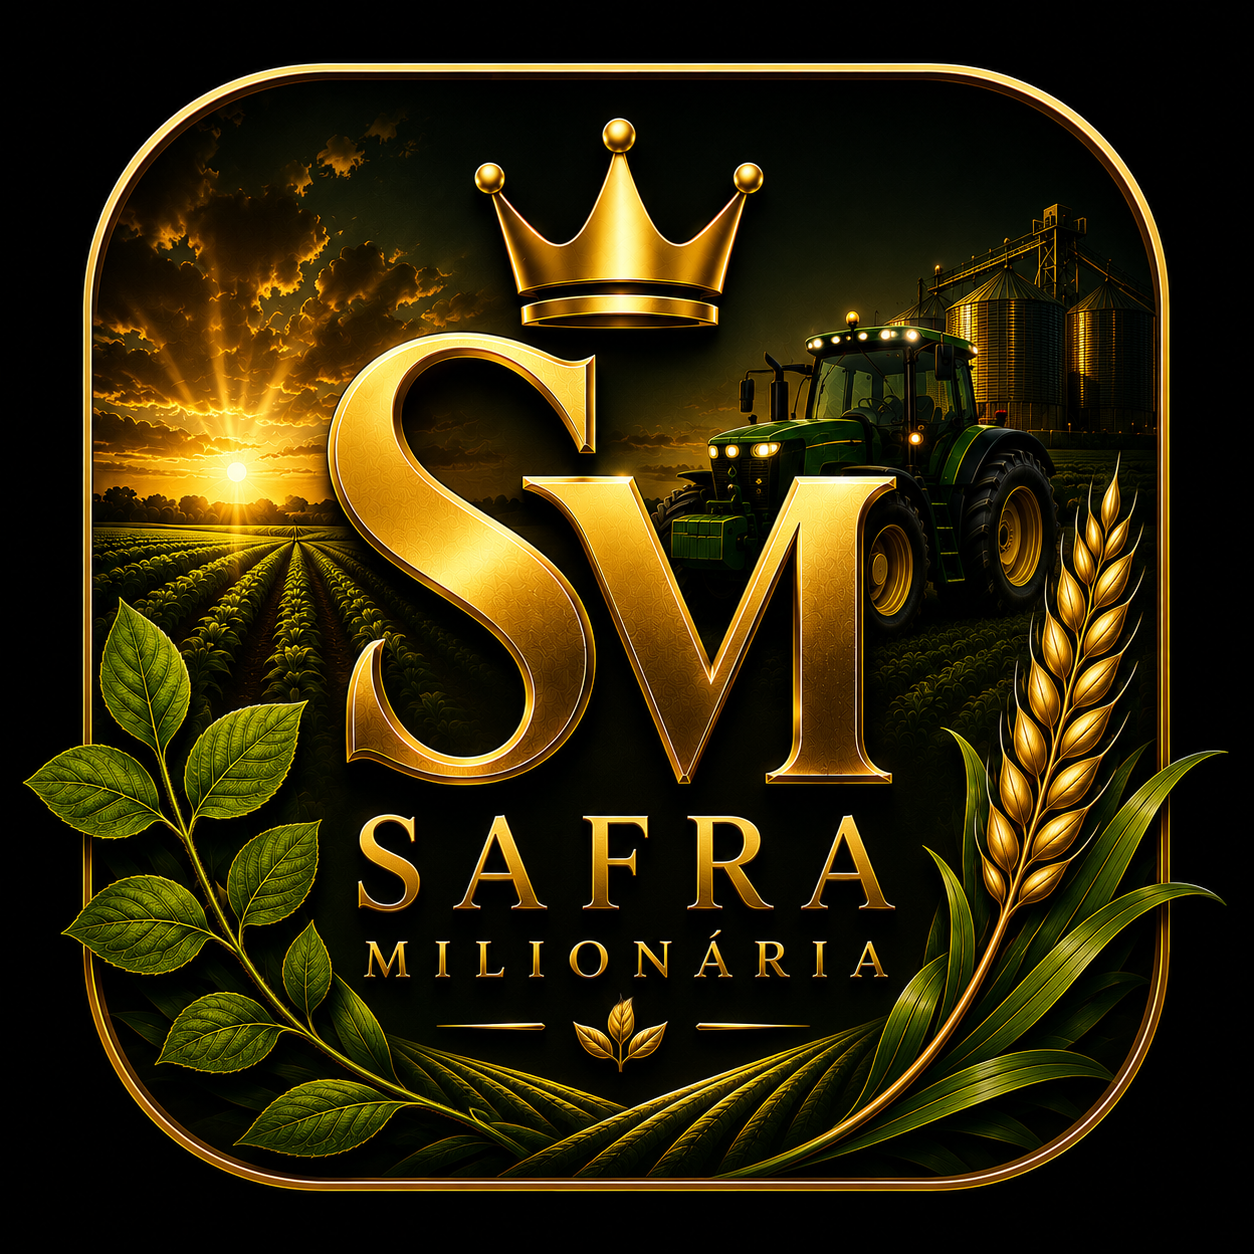
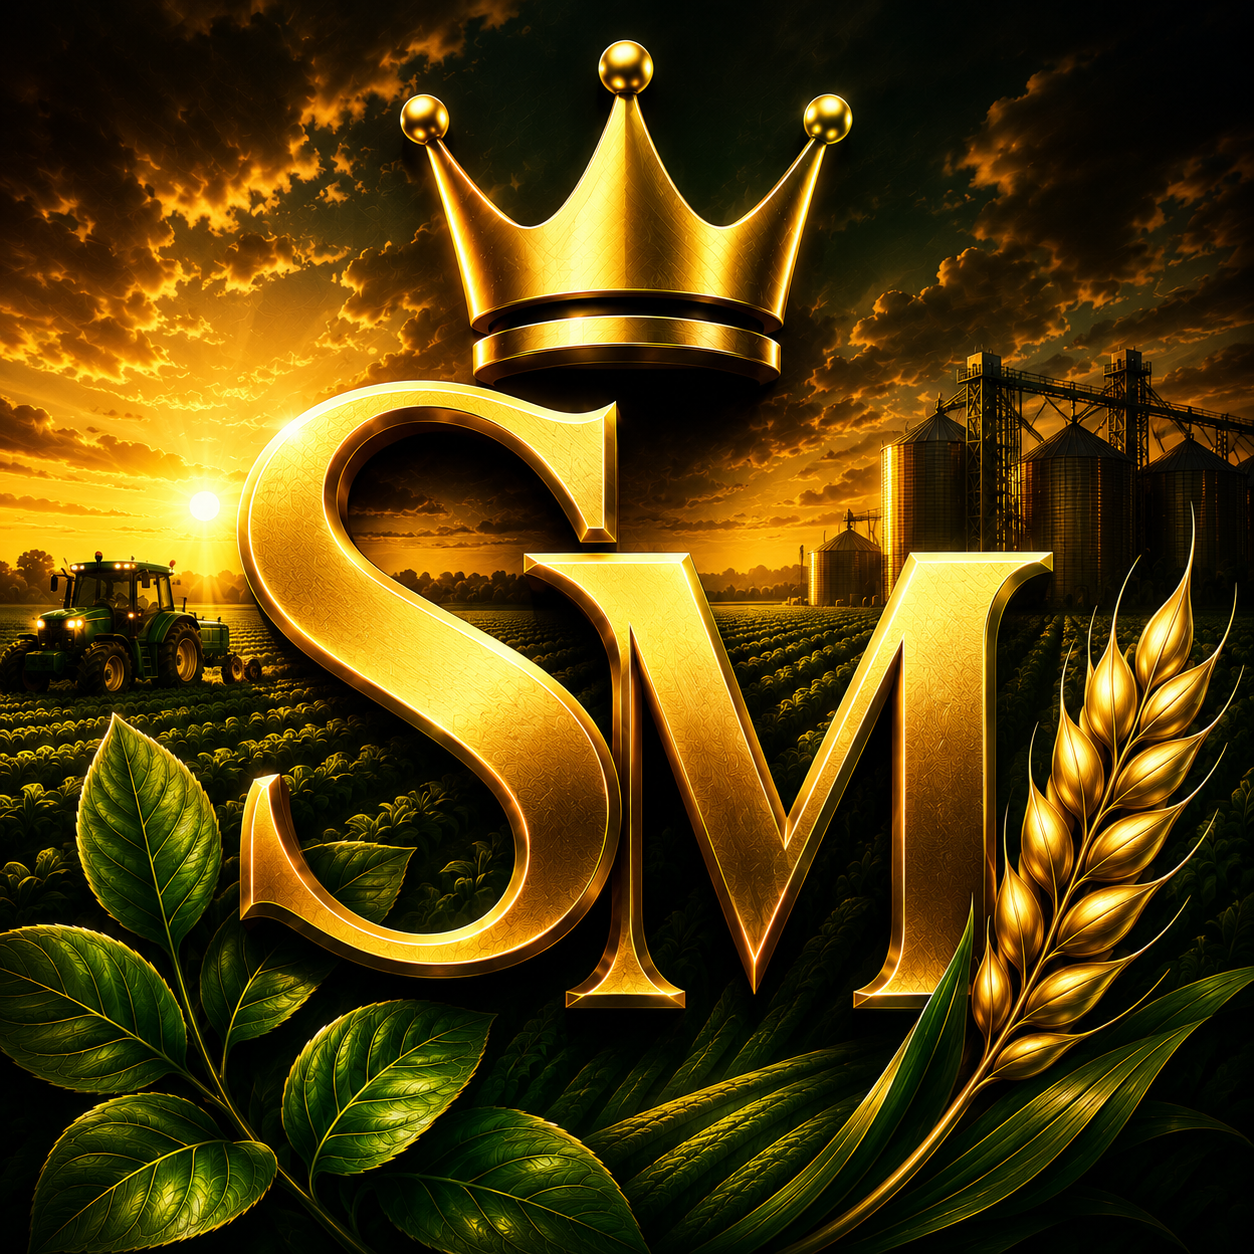
Atualização Ícones3

diff --git a/src/app/manifest.ts b/src/app/manifest.ts
@@ -4,7 +4,7 @@ import type { MetadataRoute } from "next";
 export default function manifest(): MetadataRoute.Manifest {
   return {
     name: "Safra Milionária",
-    short_name: "Safra",
+    short_name: "Safra Milionária",
     description: "O Game Show do Agro",
     start_url: "/",
     display: "standalone",